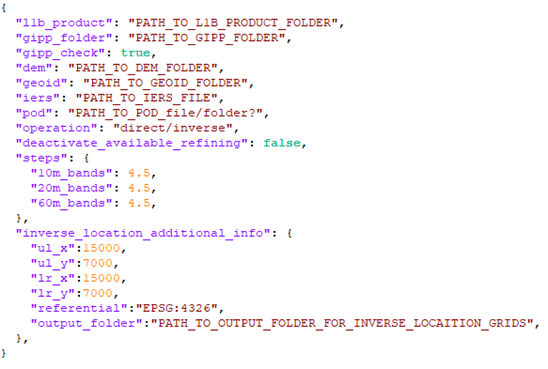
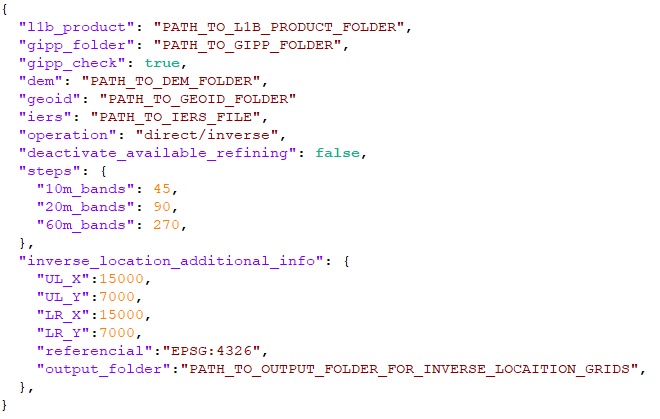
Update Doc and remove POD information

diff --git a/src/main/java/esa/sen2vm/input/Configuration.java b/src/main/java/esa/sen2vm/input/Configuration.java
@@ -31,7 +31,6 @@ public class Configuration extends InputFileManager
     private String dem;
     private String geoid;
     private String iers = "";
-    private String pod;
     private String operation;
     private boolean deactivateRefining = Sen2VMConstants.DEACTIVATE_REFINING;
     private float step_band10m;
@@ -83,11 +82,6 @@ public class Configuration extends InputFileManager
         {
             LOGGER.info("Reading IERS file at: " + commandLine.getOptionValue(OptionManager.OPT_IERS_SHORT));
             this.iers = PathUtils.checkPath(commandLine.getOptionValue(OptionManager.OPT_IERS_SHORT));
-        }
-        
-        if (commandLine.hasOption(OptionManager.OPT_POD_SHORT))
-        {
-            this.pod = PathUtils.checkPath(commandLine.getOptionValue(OptionManager.OPT_POD_SHORT));
         }
         
         // By default we want the check of GIPP version. The option deactivate the check
@@ -172,7 +166,6 @@ public class Configuration extends InputFileManager
             this.dem = PathUtils.checkPath(jsonObject.getString("dem"));
             this.geoid = PathUtils.checkPath(jsonObject.getString("geoid"));
 
-            this.pod = jsonObject.getString("pod");
             this.operation = jsonObject.getString("operation");
 
             JSONObject steps = jsonObject.getJSONObject("steps");
@@ -303,15 +296,6 @@ public class Configuration extends InputFileManager
     public String getIers()
     {
        return iers;
-    }
-
-    /**
-     * Get the POD folder
-     * @return the POD folder
-     */
-    public String getPod()
-    {
-       return pod;
     }
 
     /**

diff --git a/src/main/java/esa/sen2vm/input/OptionManager.java b/src/main/java/esa/sen2vm/input/OptionManager.java
@@ -86,12 +86,6 @@ public class OptionManager
     public static final String OPT_IERS_SHORT = "iers";
     
     /**
-     * Option for the POD file/folder (optional)
-     */
-    public static final String OPT_POD_LONG = "pod_path";
-    public static final String OPT_POD_SHORT = "pod";
-
-    /**
      * Option to deactivate the refining or not (optional; no argument)
      */
     public static final String OPT_IGNORE_REFINING_LONG = "ignore_refining";
@@ -244,9 +238,6 @@ public class OptionManager
             Option iersOption = new Option(OPT_IERS_SHORT, OPT_IERS_LONG, true, "(optional) Path to IERS file");
             iersOption.setRequired(false);  
 
-            Option podOption = new Option(OPT_POD_SHORT, OPT_POD_LONG, true, "(optional) Path to POD file/folder");
-            podOption.setRequired(false);
-   
             Option noGippCheckOption = new Option(OPT_DEACTIVATE_GIPP_CHECK_SHORT, OPT_DEACTIVATE_GIPP_CHECK_LONG, false,
                                                     "(optional) Deactivate the check of GIPP version;\n"
                                                     + "if present= \"true\", if not= \"false\". ");
@@ -301,7 +292,6 @@ public class OptionManager
            
             // Add the optional arguments
             optionsNoFile.addOption(iersOption);
-            optionsNoFile.addOption(podOption);
             optionsNoFile.addOption(noGippCheckOption);
             optionsNoFile.addOption(noRefiningOption);
             optionsNoFile.addOption(exportAltOption);

diff --git a/README.md b/README.md
@@ -132,6 +132,12 @@ otbcli_GridBasedImageResampling -io.in  /PATH_TO_DATA/working/madeire_D09_B01.ti
 # Add georeferencing to the image
 gdal_translate -a_srs EPSG:32628 /PATH_TO_DATA/working/warp_otb_D09_B01.tif /PATH_TO_DATA/working/warp_otb_D09_B01_georef.tif
 ```
+> [!CAUTION]
+> Please note that there is an [issue]((https://gitlab.orfeo-toolbox.org/orfeotoolbox/otb/-/issues/2317)) on OTB side. Until corrected, **the grid information shall be changed of half the resolution of the target pixel** (spacing) in both directions, to be synchronised. Hence in the previous command:
+>  * out.ulx **shall be updated to 293050** ( = 293050 + 60/2)
+>  * out.uly **shall be updated to 3697870** ( = 3697900 + (-60)/2)
+
+
 
 ## 2. Inputs
 Inputs required by Sen2VM are:
@@ -236,7 +242,7 @@ The version used in operation of the GIPP are listed in the L1B Datastrip Metada
 > GIPP are however not directly available in the L1B product, then shall then be downloaded beforehand by the user. All versions are available at <mark>**XXX**</mark>.
 
 The GIPP required are the following ones:
-* **GIP_VIEDIR**: contains Viewing Direction required by Rugged to create viewing model from TAN_PSI_X/Y_LIST tags, one GIP_VIEDIR file **per band**, each file containing information per **detector!** (in _[DATA/VIEWING_DIRECTIONS_LIST/VIEWING_DIRECTIONS/TAN_PSI_X_LIST]_ and _[DATA/VIEWING_DIRECTIONS_LIST/VIEWING_DIRECTIONS/TAN_PSI_Y_LIST]_
+* **GIP_VIEDIR**: contains Viewing Direction required by Rugged to create viewing model from TAN_PSI_X/Y_LIST tags, one GIP_VIEDIR file **per band**, each file containing information per **detector!** (in _[DATA/VIEWING_DIRECTIONS_LIST/VIEWING_DIRECTIONS/TAN_PSI_X_LIST]_ and _[DATA/VIEWING_DIRECTIONS_LIST/VIEWING_DIRECTIONS/TAN_PSI_Y_LIST]_)
 * **GIP_SPAMOD**: contains transformations to apply to viewing direction from tags, available in the _[DATA]_ field:
     * PILOTING_TO_MSI,
     * MSI_TO_FOCAL_PLANE,
